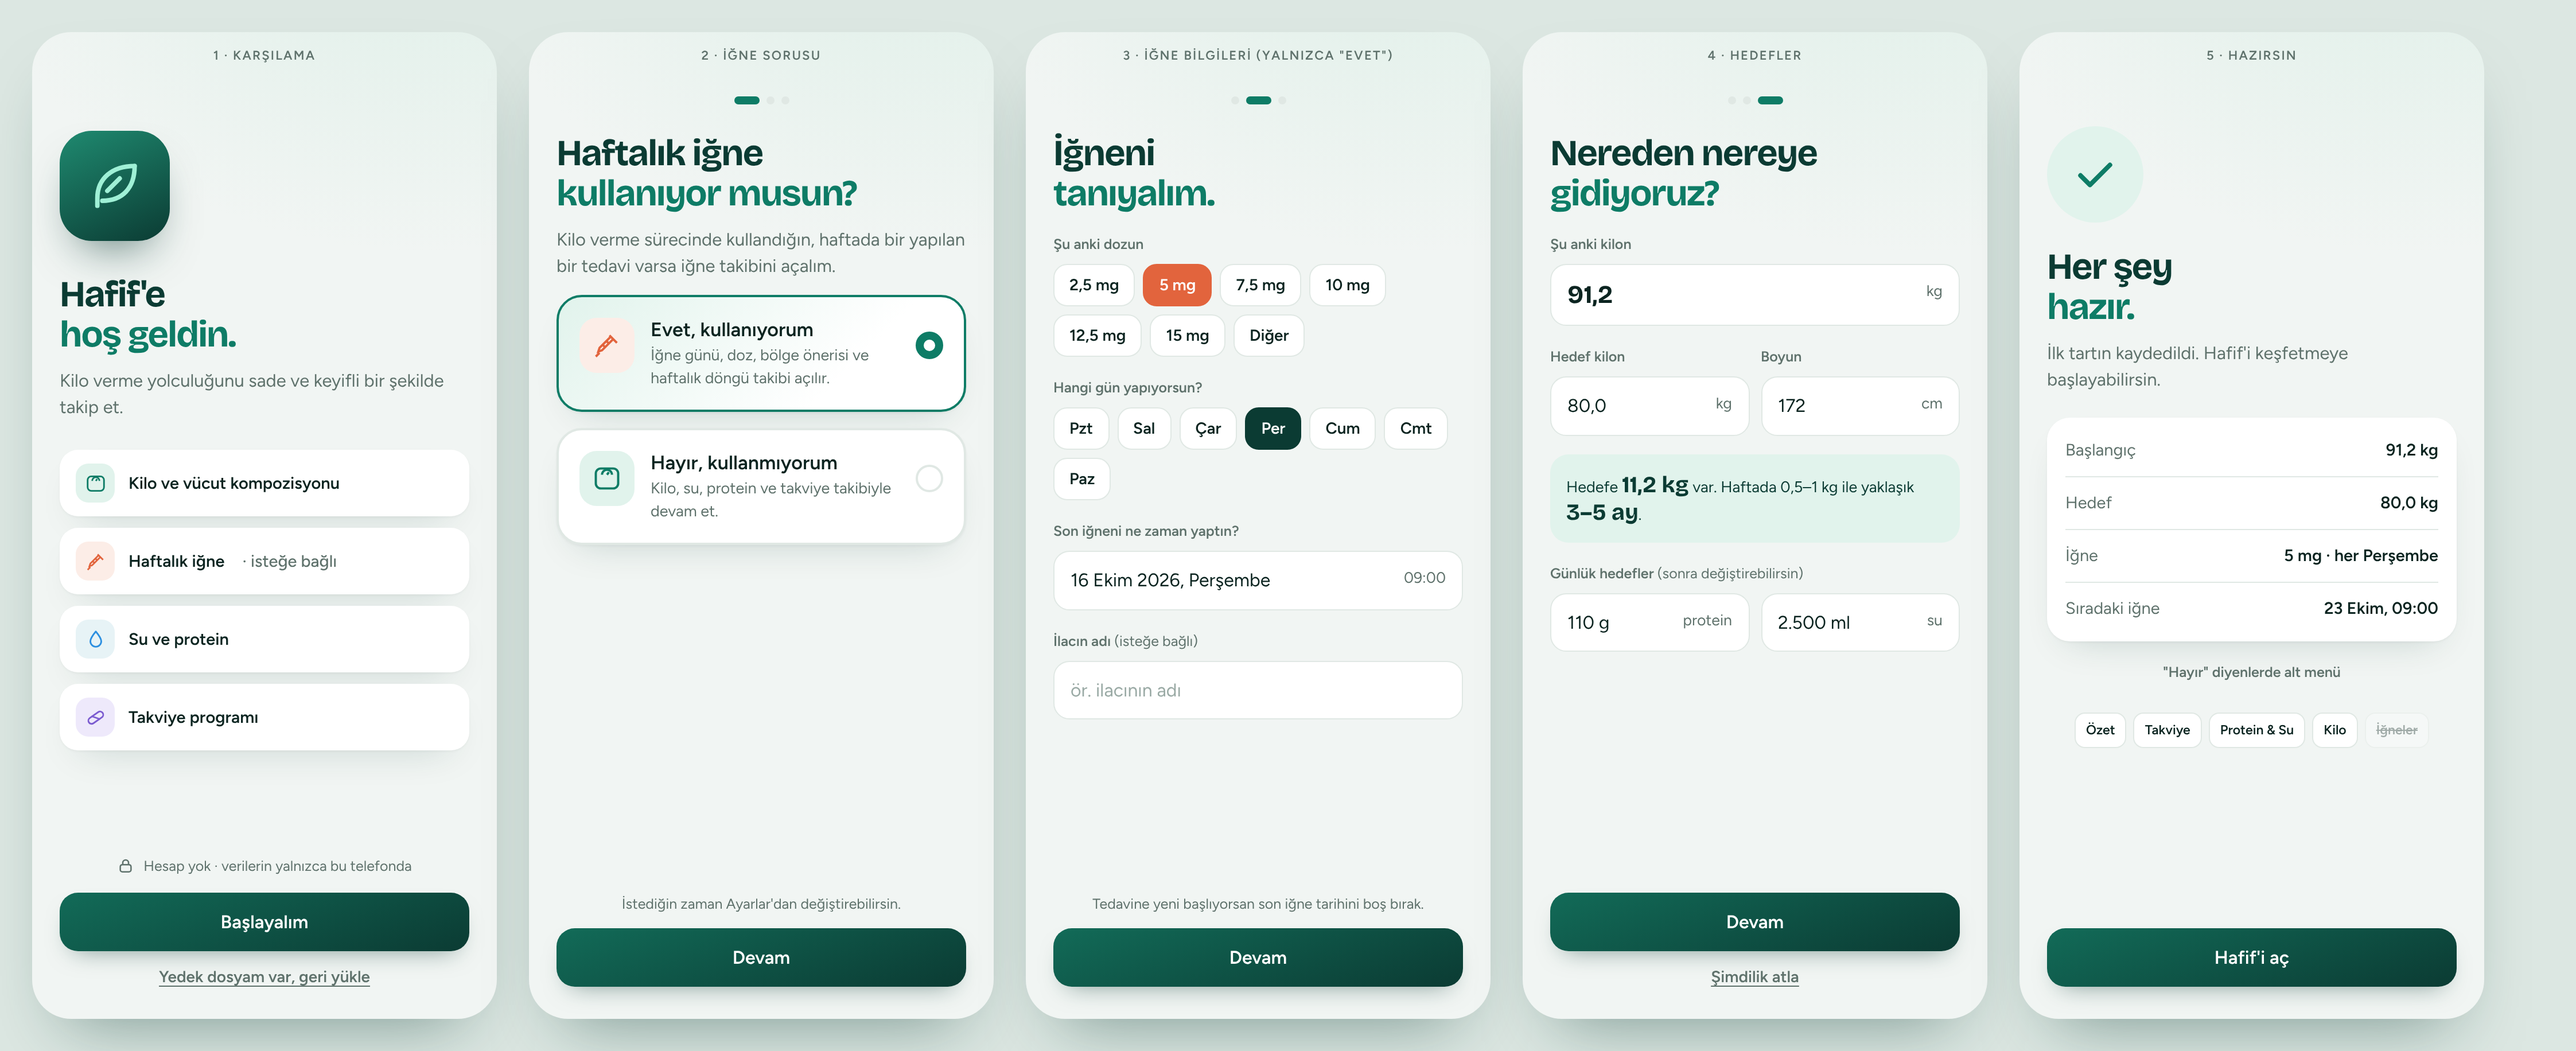
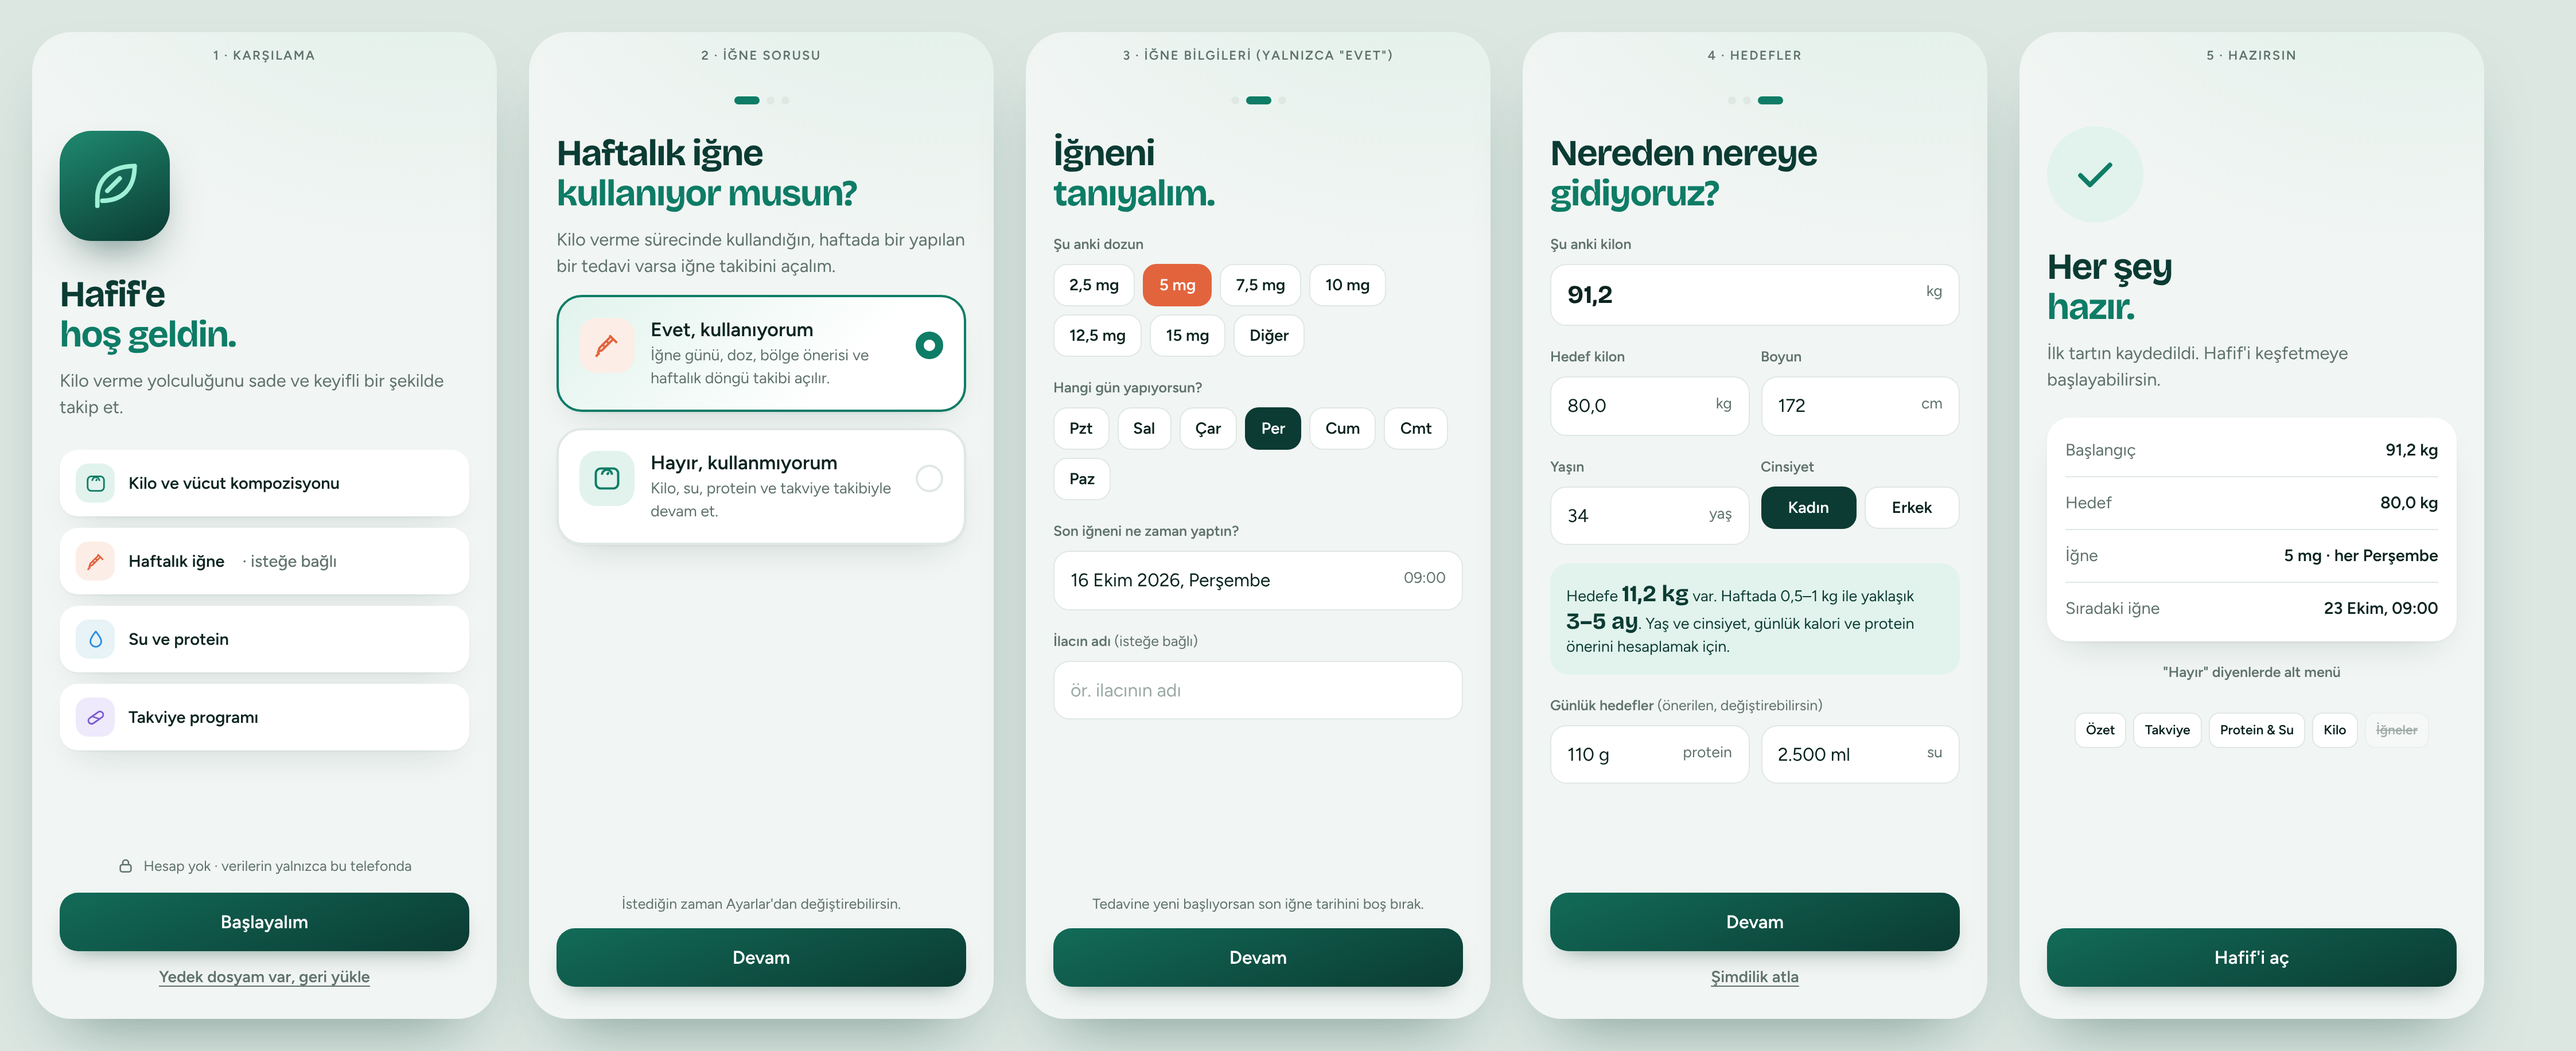
İlk kurulum taslağı: yaş ve cinsiyet
Claude-Session: https://claude.ai/code/session_01ERT3WxHgY3bECbR2LgZad1

Changed region(s): [[0.5924, 0.4356, 0.7795, 0.6223], [0.5924, 0.6534, 0.686, 0.6845]]

diff --git a/magaza/kaynak/ilk-kurulum-taslak.html b/magaza/kaynak/ilk-kurulum-taslak.html
@@ -112,8 +112,12 @@ h1 em{font-style:normal;color:var(--accent)}
     <div><div class="lbl">Hedef kilon</div><div class="inp"><span>80,0</span><small>kg</small></div></div>
     <div><div class="lbl">Boyun</div><div class="inp"><span>172</span><small>cm</small></div></div>
   </div>
-  <div class="bmi">Hedefe <b>11,2 kg</b> var. Haftada 0,5–1 kg ile yaklaşık <b>3–5 ay</b>.</div>
-  <div class="lbl">Günlük hedefler <span style="font-weight:400">(sonra değiştirebilirsin)</span></div>
+  <div class="two">
+    <div><div class="lbl">Yaşın</div><div class="inp"><span>34</span><small>yaş</small></div></div>
+    <div><div class="lbl">Cinsiyet</div><div class="chips"><span class="on" style="flex:1;text-align:center">Kadın</span><span style="flex:1;text-align:center">Erkek</span></div></div>
+  </div>
+  <div class="bmi">Hedefe <b>11,2 kg</b> var. Haftada 0,5–1 kg ile yaklaşık <b>3–5 ay</b>. Yaş ve cinsiyet, günlük kalori ve protein önerini hesaplamak için.</div>
+  <div class="lbl">Günlük hedefler <span style="font-weight:400">(önerilen, değiştirebilirsin)</span></div>
   <div class="two"><div class="inp"><span>110 g</span><small>protein</small></div><div class="inp"><span>2.500 ml</span><small>su</small></div></div>
   <div class="grow"></div>
   <div class="btn">Devam</div>
